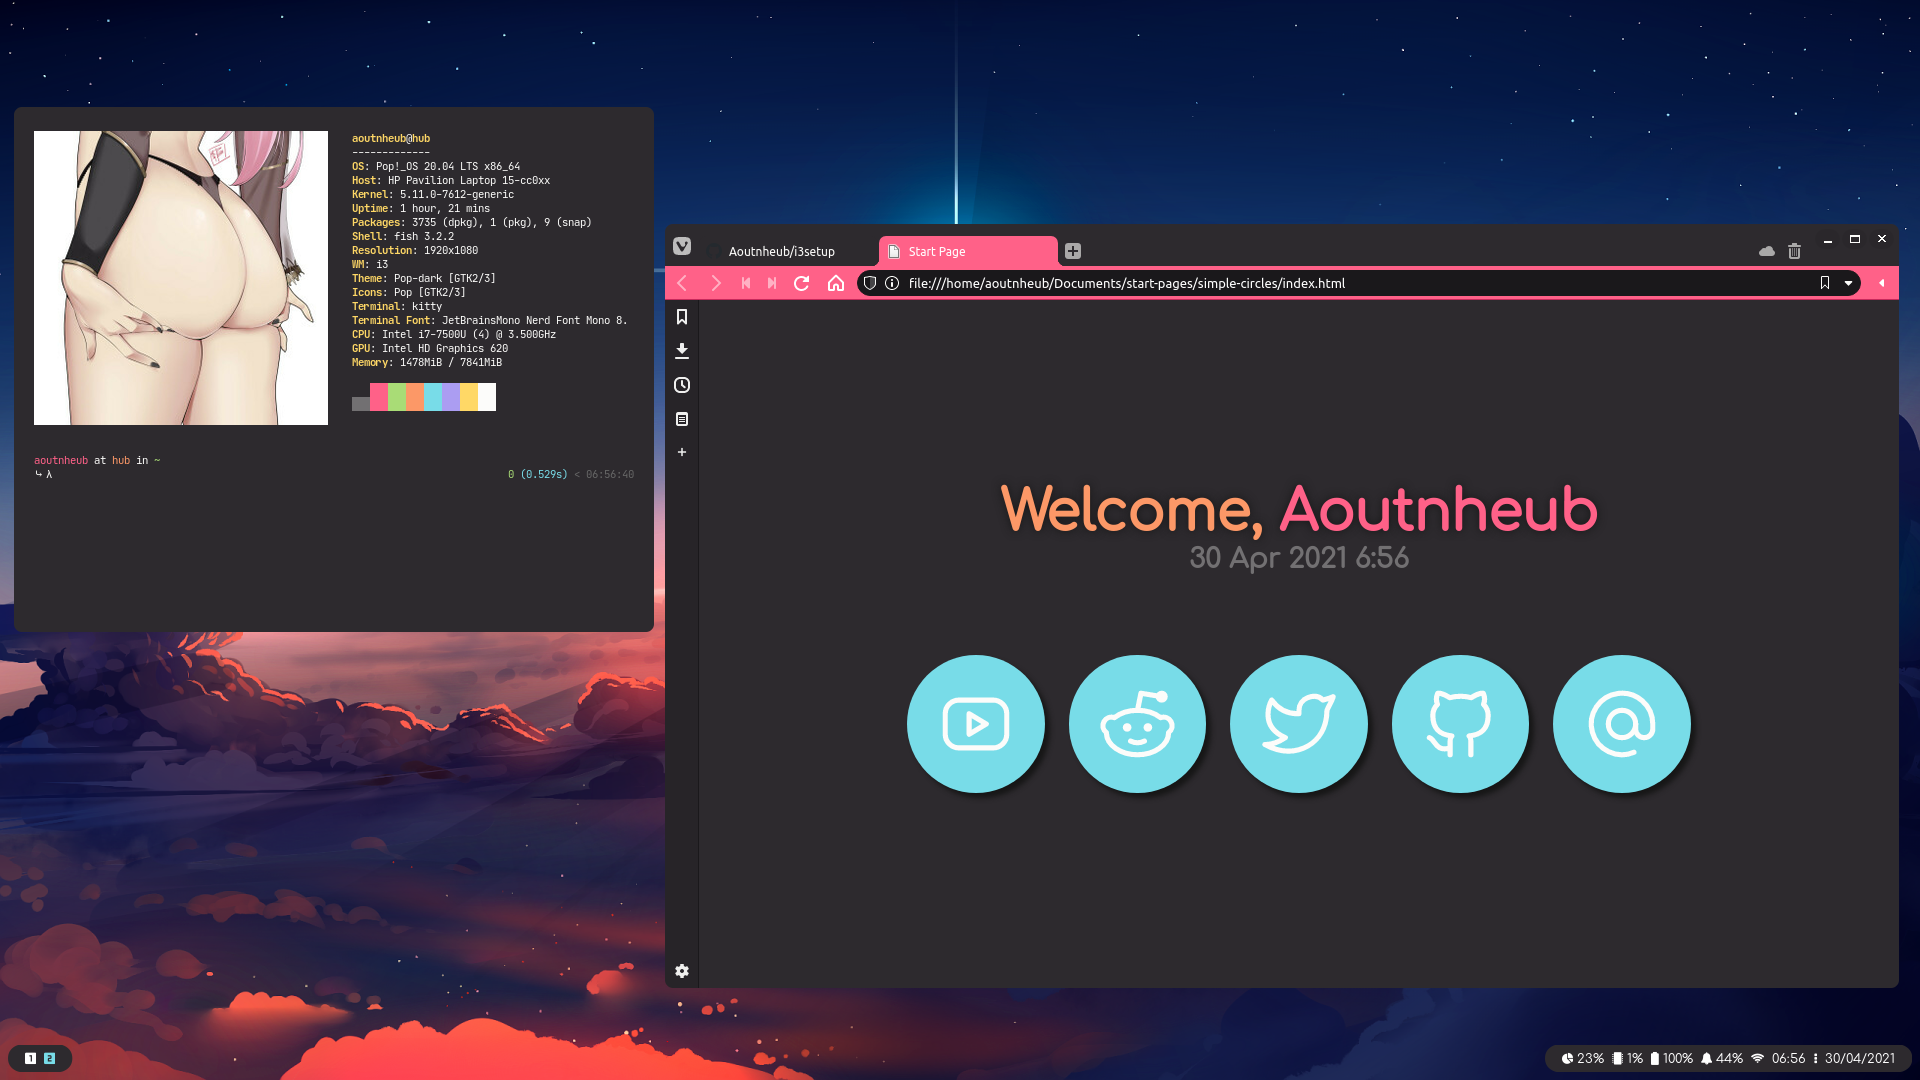
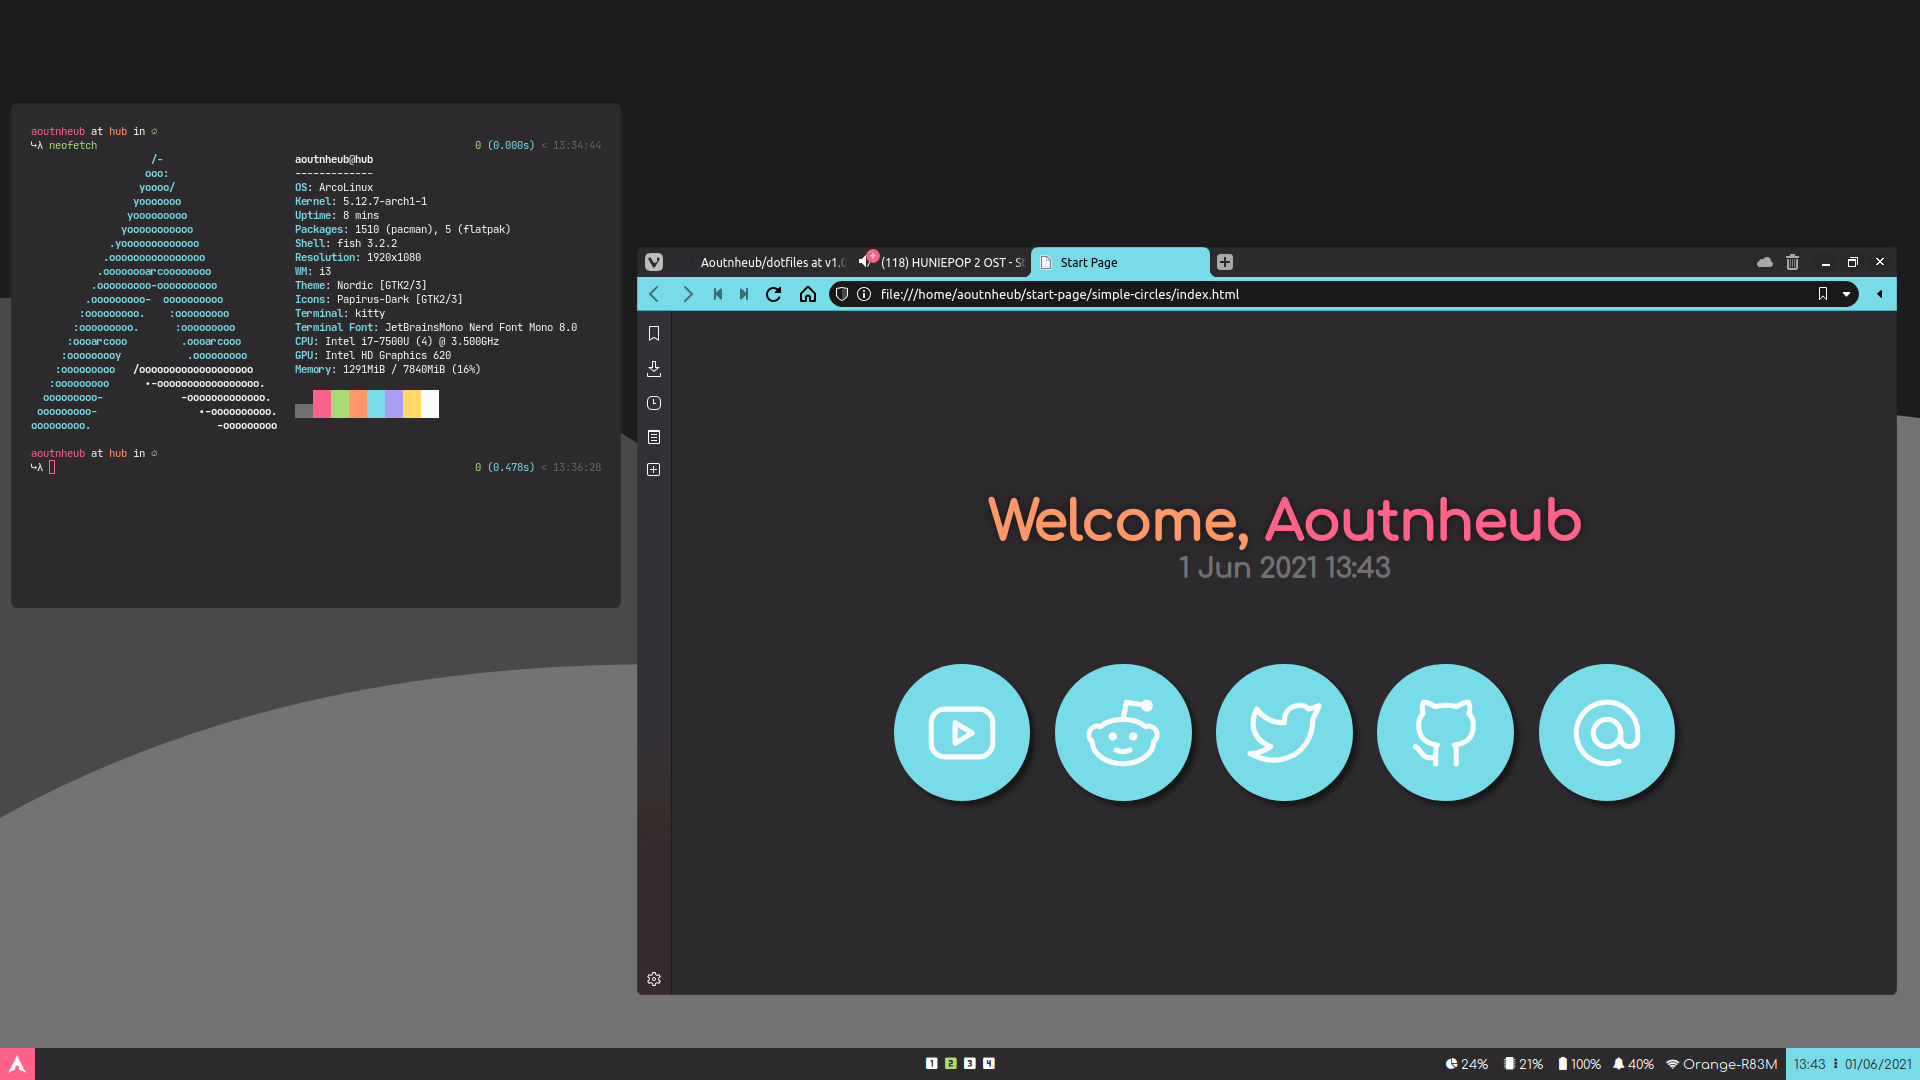
new look

diff --git a/start-page/simple-circles/style.css b/start-page/simple-circles/style.css
@@ -4,7 +4,7 @@ html {
 }
 
 body {
-    background-color: #272822;
+    background-color: #2d2a2e;
     margin: 0;
     padding: 0;
 }
@@ -32,7 +32,7 @@ body {
 #message {
     font-weight: bold;
     font-size: 8vh;
-    color: #fd971f;
+    color: #fc9867;
     text-shadow: 0px 0px 10px #171717;
     font-family: "Comfortaa Regular";
     font-weight: bold;
@@ -41,12 +41,12 @@ body {
 }
 
 #user {
-    color: #f92672;
+    color: #ff6188;
 }
 
 #date {
     font-size: 4vh;
-    color: #75715e;
+    color: #727072;
     font-family: "Comfortaa Regular";
     text-align: center;
     margin: 0;
@@ -80,7 +80,7 @@ body {
     height: 100%;
     box-shadow: 5px 5px 5px #171717;
     border-radius: 100px;
-    background-color: #66d9ef;
+    background-color: #78dce8;
     overflow: hidden;
 }
 
@@ -95,7 +95,7 @@ body {
     margin-left: 10%;
     box-shadow: 5px 5px 5px #171717;
     border-radius: 100px;
-    background-color: #66d9ef;
+    background-color: #79dce8;
     overflow: hidden;
 }
 
@@ -108,26 +108,26 @@ body {
     width: 80%;
     height: 80%;
     margin: 10% 0 0 10%;
-    background-color: #66d9ef;
+    background-color: #78dce8;
 }
 
 .widget-t:hover .widget-background-t {
     width: 60%;
     height: 60%;
     margin: 10% 0 0 20%;
-    background-color: #66d9ef;
+    background-color: #78dce8;
 }
 
 .widget svg, .widget-t svg {
     height: 60%;
     width: 60%;
     margin: 20% 0 0 20%;
-    stroke: #f8f8f2;
-    color: #f8f8f2;
+    stroke: #fcfcfa;
+    color: #fcfcfa;
 }
 
 .widget-name {
-    color: #f8f8f2;
+    color: #fcfcfa;
     text-align: center;
     font-size: 3vh;
     font-family: "Comfortaa Regular";

diff --git a/power-menu/main.cpp b/power-menu/main.cpp
@@ -10,11 +10,13 @@
 class MainWindow: public QMainWindow {
     Q_OBJECT
     public:
-        MainWindow(QWidget *parent = nullptr): QMainWindow(parent) {};
+        QWidget *parent;
+
+        MainWindow(QWidget *_parent = nullptr): QMainWindow(_parent), parent(_parent) {};
         ~MainWindow() {};
     protected:
-        void keyPressEvent(QKeyEvent *event) override {
-            if(event->key() == Qt::Key_Q) {
+        void keyPressEvent(QKeyEvent *_event) override {
+            if(_event->key() == Qt::Key_Q || _event->key() == Qt::Key_Escape) {
                 this->close();
             }
         }
@@ -30,10 +32,10 @@ void onExit() {
             system("sudo reboot");
             break;
         case 3:
-            system("sleep 0.1 && lock.sh && sudo systemctl hibernate");
+            system("sleep 0.2 && lock.sh && sudo systemctl hibernate");
             break;
         case 4:
-            system("sleep 0.1 && lock.sh && sudo systemctl suspend");
+            system("sleep 0.2 && lock.sh && sudo systemctl suspend");
             break;
         case 5:
             system("sleep 0.2 && lock.sh");
@@ -41,6 +43,21 @@ void onExit() {
         default:
             break;
     }
+}
+
+void setBtnStylesheet(QPushButton *_button, std::string _icon) {
+    _button->setStyleSheet(QString::fromStdString(
+        "QPushButton {"\
+        "    background-color: #202020;"\
+        "    border: none;"\
+        "    background-image: url("+_icon+");"\
+        "    background-repeat: no-repeat;"\
+        "    background-position: center;"\
+        "}"\
+        "QPushButton:hover {"\
+        "    background-color: #303030;"\
+        "}"
+    ));
 }
 
 int main(int argc, char *argv[]) {
@@ -51,40 +68,40 @@ int main(int argc, char *argv[]) {
     win.setWindowFlags(Qt::Window | Qt::FramelessWindowHint);
     win.show();
 
-    std::string user = std::getenv("USER");
+    std::string user = std::getenv("HOME");
     std::atexit(onExit);
 
     QPushButton shutdown("", &win);
     shutdown.setFixedSize(100, 100);
-    shutdown.setStyleSheet(QString::fromStdString("QPushButton {background-color: #202020; border: none; background-image: url(\"/home/"+user+"/Pictures/icons/shutdown.png\"); background-repeat: no-repeat; background-position: center;} QPushButton:hover {background-color: #303030}"));
+    setBtnStylesheet(&shutdown, ":/icon/shutdown");
     QObject::connect(&shutdown, &QPushButton::clicked, [&win]()->void{command = 1; win.close();});
     shutdown.show();
 
     QPushButton reboot("", &win);
     reboot.setFixedSize(100, 100);
     reboot.move(100, 0);
-    reboot.setStyleSheet(QString::fromStdString("QPushButton {background-color: #202020; border: none; background-image: url(\"/home/"+user+"/Pictures/icons/reboot.png\"); background-repeat: no-repeat; background-position: center;} QPushButton:hover {background-color: #303030}"));
+    setBtnStylesheet(&reboot, ":/icon/reboot");
     QObject::connect(&reboot, &QPushButton::clicked, [&win]()->void{command = 2; win.close();});
     reboot.show();
 
     QPushButton hibernate("", &win);
     hibernate.setFixedSize(100, 100);
     hibernate.move(200, 0);
-    hibernate.setStyleSheet(QString::fromStdString("QPushButton {background-color: #202020; border: none; background-image: url(\"/home/"+user+"/Pictures/icons/hibernate.png\"); background-repeat: no-repeat; background-position: center;} QPushButton:hover {background-color: #303030}"));
+    setBtnStylesheet(&hibernate, ":/icon/hibernate");
     QObject::connect(&hibernate, &QPushButton::clicked, [&win]()->void{command = 3; win.close();});
     hibernate.show();
 
     QPushButton suspend("", &win);
     suspend.setFixedSize(100, 100);
     suspend.move(300, 0);
-    suspend.setStyleSheet(QString::fromStdString("QPushButton {background-color: #202020; border: none; background-image: url(\"/home/"+user+"/Pictures/icons/suspend.png\"); background-repeat: no-repeat; background-position: center;} QPushButton:hover {background-color: #303030}"));
+    setBtnStylesheet(&suspend, ":/icon/sleep");
     QObject::connect(&suspend, &QPushButton::clicked, [&win]()->void{command = 4; win.close();});
     suspend.show();
 
     QPushButton lock("", &win);
     lock.setFixedSize(100, 100);
     lock.move(400, 0);
-    lock.setStyleSheet(QString::fromStdString("QPushButton {background-color: #202020; border: none; background-image: url(\"/home/"+user+"/Pictures/icons/lock.png\"); background-repeat: no-repeat; background-position: center;} QPushButton:hover {background-color: #303030}"));
+    setBtnStylesheet(&lock, ":/icon/lock");
     QObject::connect(&lock, &QPushButton::clicked, [&win]()->void{command = 5; win.close();});
     lock.show();
 

diff --git a/README.md b/README.md
@@ -1,5 +1,5 @@
 # Details
-- **OS**: Pop!_OS 20.04
+- **OS**: ArcoLinux
 - **WM**: i3
 - **Terminal**: Kitty
 - **Shell**: Fish
